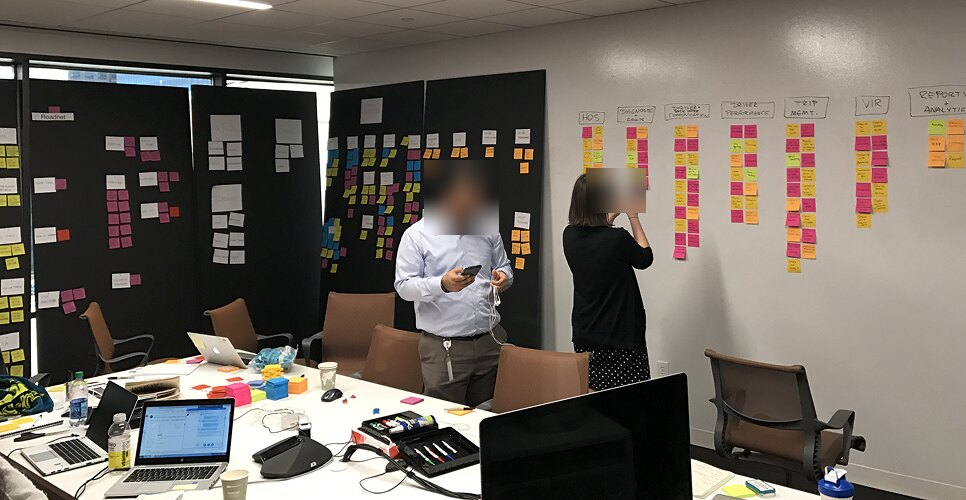
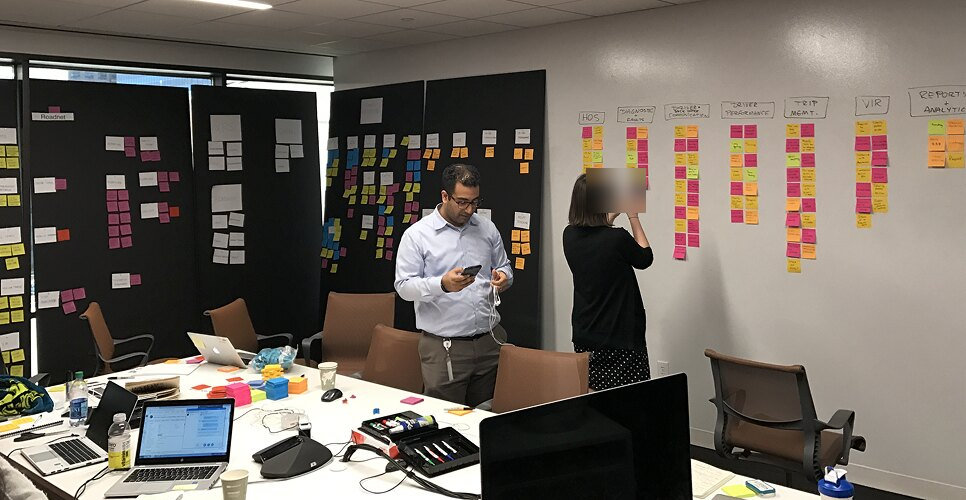
Unblur Aneil in the context-mapping photo; caption names him
He confirmed the man at the wall is him. The second face stays blurred.

Claude-Session: https://claude.ai/code/session_01691hhYk3XYaX9QEUWvYz65

Changed region(s): [[0.4348, 0.3, 0.528, 0.48]]

diff --git a/work-with-me.html b/work-with-me.html
@@ -299,8 +299,8 @@
         <p>Omnitracs had grown by acquisition, so a fleet manager could touch four products before lunch and meet four different ideas of what a driver was. We put the whole thing on one wall with every function that owned a piece of it standing in front of it.</p>
         <p>The moment that changed the room was not a slide. It was watching the same driver record change its name three times across six feet of wall, with the person responsible for each name standing right there. Nobody had to be told there was a problem and nobody had to be blamed for it.</p>
         <figure class="shot">
-          <img src="assets/work/workshop-context-wall.jpg" alt="A cross platform context map on a wall, hundreds of coloured sticky notes grouped under handwritten category headers" width="966" height="500" loading="lazy">
-          <figcaption>The cross platform context map, mid session.</figcaption>
+          <img src="assets/work/workshop-context-wall.jpg" alt="Aneil Razvi standing in front of a cross platform context map on a wall, hundreds of coloured sticky notes grouped under handwritten category headers" width="966" height="500" loading="lazy">
+          <figcaption>The cross platform context map, mid session. That is me in front of it.</figcaption>
         </figure>
       </div>
     </details>
